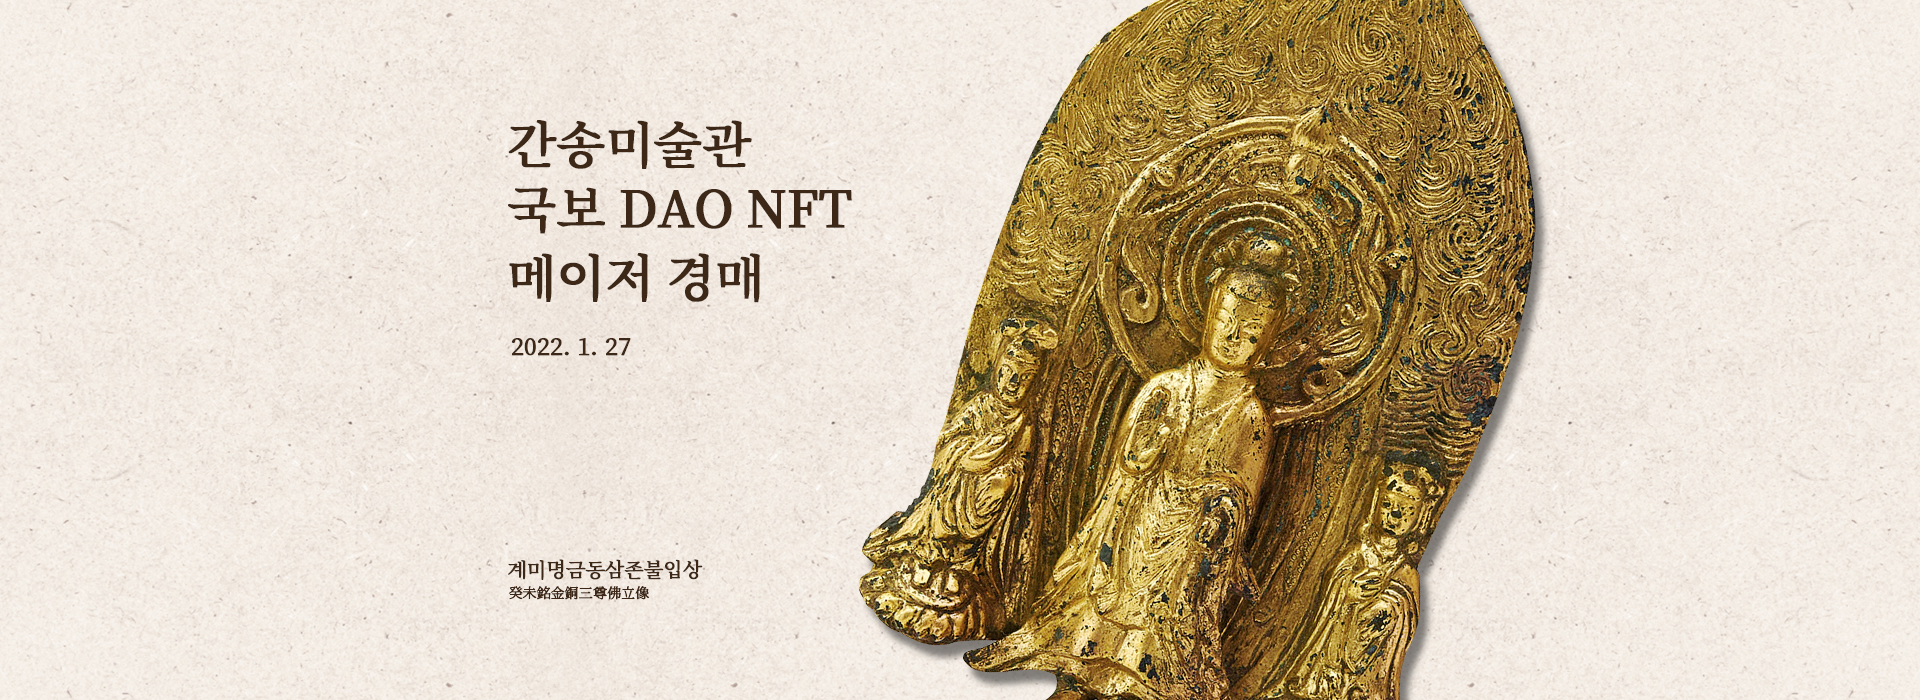
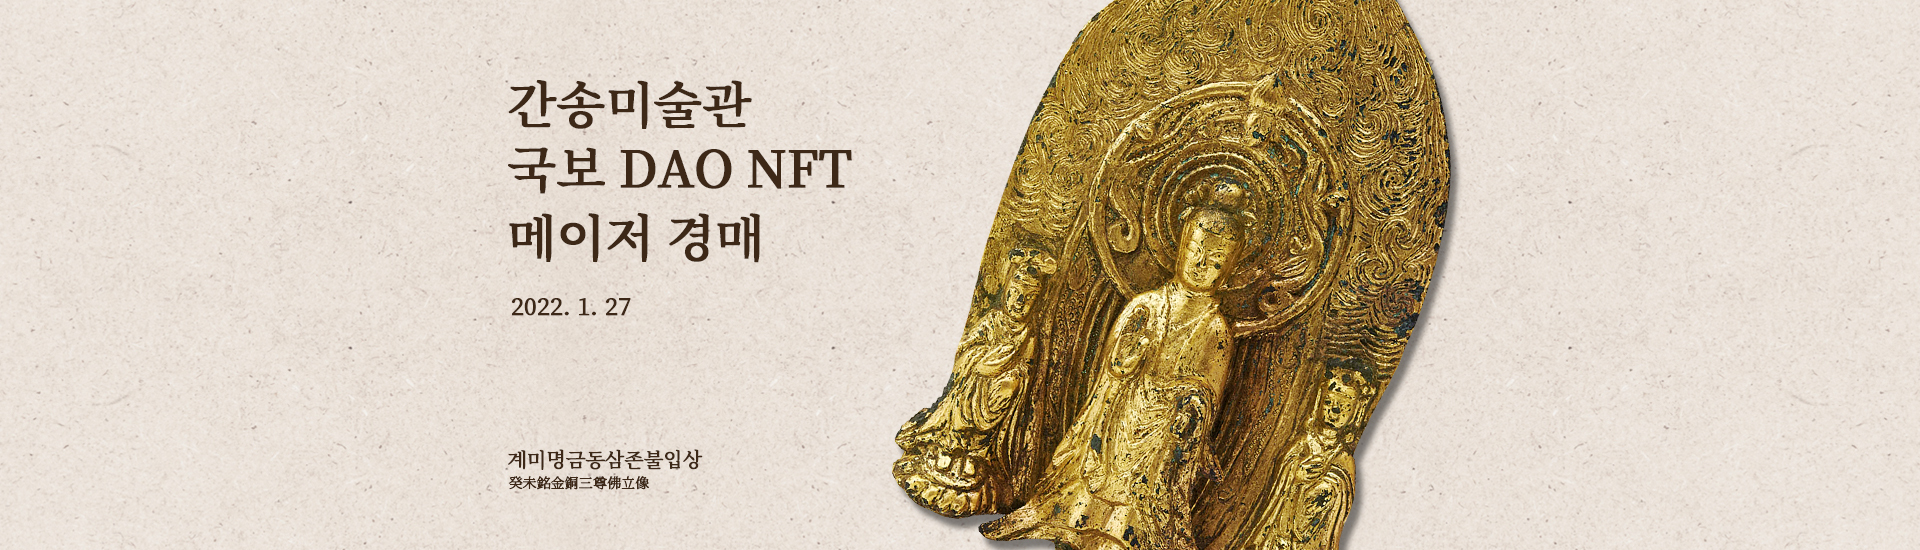
-.

diff --git a/index.html b/index.html
@@ -79,7 +79,7 @@
 
     <link rel="stylesheet" type="text/css" href="./css/index.css" />
   </head>
-  <body>
+  <body style="background-image: url(./asset/bg-repeat.jpg)">
     <div class="body-div" id="body-div">
       <div id="minting-loading"><div class="spinner"></div></div>
       <!-- <div class="modal-popup">
@@ -92,10 +92,57 @@
           </div>
         </div>
       </div> -->
+      <div class="header-div">
+        <img src="./asset/description-img1.jpg" width="50px" height="50px" />
+        <div class="header-right-div">
+          <a
+            href="https://discord.gg/NUWSxvNHv4"
+            class="social-btn"
+            target="_blank"
+          >
+            <img width="40" height="40" src="./asset/icon-discord.png" />
+          </a>
+          <a
+            href="https://discord.gg/NUWSxvNHv4"
+            class="social-btn"
+            target="_blank"
+          >
+            <img width="40" height="40" src="./asset/icon-twitter.png" />
+          </a>
+          <button
+            id="connect-btn"
+            class="button-small"
+            style="margin-left: 10px; display: none"
+            onclick="connectWallet()"
+          >
+            지갑 연결
+          </button>
+          <button
+            id="my-addr-btn"
+            class="button-small my-address"
+            style="margin-left: 10px; display: block"
+          ></button>
+        </div>
+      </div>
+      <!-- Funding popup  -->
+      <div class="modal-popup">
+        <div class="modal_body">
+          <div id="funding-loading"><div class="spinner"></div></div>
+          <div>
+            <p class="title_sub_p">DAO 참여하기</p>
+            <button class="btn-close-popup button-small">닫기</button>
+          </div>
+          <div>
+            <div>
+              <button class="button-text-large">경매 참여</button>
+            </div>
+          </div>
+        </div>
+      </div>
       <div
         id="banner_div"
         class="top-div"
-        style="background-image: url('./asset/banner1.jpg'); height: 650px"
+        style="background-image: url('./asset/banner1.jpg'); height: 550px"
       >
         <!-- <img id="bg-image" width="100%" height="650px" src="./asset/banner1.jpg"/> -->
         <div id="div-countdown" style="display: none">
@@ -109,7 +156,7 @@
         </div>
       </div>
       <div class="content-div">
-        <div class="frame-common" style="display: none">
+        <!-- <div class="frame-common" style="display: none">
           <div id="div-network" style="margin-bottom: 20px">
             Current Network :
             <span class="current-network" style="margin-right: 10px"></span>
@@ -139,7 +186,7 @@
               <span class="nft-address" style="margin-right: 10px"></span>
             </div>
           </div>
-        </div>
+        </div> -->
         <div style="margin-top: 80px; display: inline-flex">
           <div class="funding-state-div">
             <p class="title_sub_p">목표 모금 금액</p>
@@ -412,7 +459,7 @@
       </div>
     </div>
     <div class="funding-btn-div">
-      <button class="button-funding">참여하기</button>
+      <button class="button-funding btn-open-popup">참여하기</button>
     </div>
     <!-- Script -->
     <script src="./js/1.2.11-web3-min.js"></script>

diff --git a/css/index.css b/css/index.css
@@ -68,7 +68,7 @@ button {
   padding-bottom: 10px;
   color: var(--primary-color);
   /* font-family: "Fuzzy Bubbles", cursive; */
-  font-family: "MuseumClassic", sans-serif;
+  font-family: "Mu국립박물관문화재단클래식MseumClassic", sans-serif;
 }
 
 button:hover {
@@ -89,6 +89,40 @@ button[disabled] {
   line-height: 160%;
   text-align: right;
   border: 0;
+  font-family: "국립박물관문화재단클래식M";
+}
+
+.button-text-large {
+  font-size: 28px;
+  line-height: 160%;
+  width: 100%;
+  text-align: center;
+  border: 0;
+  background-color: var(--primary-color);
+  color: white;
+  font-family: "국립박물관문화재단클래식M";
+}
+
+.button-small {
+  font-size: 14px;
+  line-height: 160%;
+  text-align: right;
+  border: 0;
+  border-radius: 100px;
+  padding-left: 30px;
+  padding-right: 30px;
+  padding-top: 8px;
+  padding-bottom: 8px;
+  color: var(--buton-font-color);
+  background-color: var(--primary-color);
+  font-family: "국립박물관문화재단클래식M";
+}
+
+.social-btn {
+  width: 40px;
+  height: 40px;
+  margin-right: 8px;
+  display: inline-block;
 }
 
 p {
@@ -168,9 +202,6 @@ select {
   overflow: auto;
   scrollbar-width: none;
 }
-.body-div::-webkit-scrollbar {
-  display: none; /* Chrome, Safari, Opera*/
-}
 
 .content-div {
   width: 900px;
@@ -201,6 +232,23 @@ select {
   /* position: fixed; */
   width: 100%;
   height: 700px;
+}
+
+.header-div {
+  left: 0%;
+  right: 0%;
+  top: 0%;
+  height: 100px;
+  width: 900px;
+  display: flex;
+  align-items: center;
+}
+
+.header-right-div {
+  display: flex;
+  flex-direction: row;
+  width: 100%;
+  justify-content: right;
 }
 
 .title_p {
@@ -289,7 +337,7 @@ select {
   left: 0%;
   right: 0%;
   bottom: 0%;
-  width: 900px;
+  width: 930px;
   height: 80px;
   background: #3d2817;
   box-shadow: 0px 0px 20px rgba(61, 40, 23, 0.5);
@@ -303,10 +351,12 @@ select {
   font-family: "국립박물관문화재단클래식M", sans-serif;
   font-size: 26px;
   line-height: 160%;
-  text-align: right;
+  width: 100%;
+  text-align: center;
   border: 0;
   color: white;
 }
+
 .modal-popup {
   position: absolute;
   top: 0;
@@ -316,6 +366,7 @@ select {
   height: 100%;
 
   display: none;
+  background-color: rgba(0, 0, 0, 0.4);
 }
 
 .modal-popup.show {
@@ -334,9 +385,31 @@ select {
 
   text-align: center;
 
-  background-color: var(--second-color);
-  border-radius: 10px;
-  box-shadow: 0 2px 3px 0 rgba(34, 36, 38, 0.15);
+  background-color: white;
 
   transform: translateX(-50%) translateY(-50%);
+}
+
+#funding-loading {
+  display: none;
+  /* width: 100%;
+            height: 100%; */
+  position: absolute;
+  top: 0;
+  left: 0;
+}
+#funding-loading .spinner {
+  box-sizing: border-box;
+  position: fixed;
+  top: 50%;
+  left: 46%;
+  width: 150px;
+  height: 150px;
+  /* margin-top: -32px;
+            margin-left: -32px;             */
+  border-radius: 50%;
+  border: 20px solid transparent;
+  border-top-color: #ce113b;
+  border-bottom-color: #ce113b;
+  animation: spinner 0.8s ease infinite;
 }

diff --git a/js/index.js b/js/index.js
@@ -99,11 +99,13 @@ async function getAccount() {
       $(".my-address").html(getLink(myAddr, chainId));
       $("#content_body").show();
       $("#connect-btn").hide();
+      $("#my-addr-btn").show();
     } else {
       console.log("No Klaytn account is available!");
       $("#div-myaddress").hide();
       $("#content_body").hide();
       $("#connect-btn").show();
+      $("#my-addr-btn").hide();
 
       $(".description").html(
         "<p>모금에 참여하려면 지갑 연결 버튼을 클릭하여 지갑을 연결하세요..</p>"
@@ -114,6 +116,7 @@ async function getAccount() {
     $("#div-myaddress").hide();
     $("#content_body").hide();
     $("#connect-btn").show();
+    $("#my-addr-btn").hide();
     $(".description").html(
       "<p>모금에 참여하려면 지갑 연결 버튼을 클릭하여 지갑을 연결하세요..</p>"
     );
@@ -203,3 +206,41 @@ function showBanner() {
     loop_cnt == banner_img.length ? (loop_cnt = 0) : loop_cnt;
   }, 5000);
 }
+
+const modal = document.querySelector(".modal-popup");
+const btnOpenPopup = document.querySelector(".btn-open-popup");
+const btnClosePopup = document.querySelector(".btn-close-popup");
+
+btnOpenPopup.addEventListener("click", () => {
+  modal.classList.toggle("show");
+  const target = document.getElementById("bonus-claim-btn");
+  target.disabled = true;
+
+  if (modal.classList.contains("show")) {
+    body.style.overflow = "hidden";
+  }
+  showBonusClaimCardList();
+});
+
+btnClosePopup.addEventListener("click", () => {
+  modal.classList.toggle("show");
+  bonus_claim_complete.innerHTML = "";
+
+  const target = document.getElementById("bonus-claim-btn");
+  target.disabled = true;
+
+  if (!modal.classList.contains("show")) {
+    body.style.overflow = "auto";
+  }
+});
+
+modal.addEventListener("click", (event) => {
+  if (event.target === modal) {
+    modal.classList.toggle("show");
+    bonus_claim_complete.innerHTML = "";
+
+    if (!modal.classList.contains("show")) {
+      body.style.overflow = "auto";
+    }
+  }
+});

diff --git a/js/utils.js b/js/utils.js
@@ -14,9 +14,9 @@ function getLink(addr, chainId) {
 
   if (addr.length == 42) {
     return (
-      '<a target="_blank" style="text-decoration: underline;color:coral;" href="' +
+      '<a target="_blank" style="color:white;" href="' +
       explorer +
-      "/address/" +
+      "/account/" +
       addr +
       '">' +
       shortAddr +
@@ -24,7 +24,7 @@ function getLink(addr, chainId) {
     );
   } else {
     return (
-      '<a target="_blank" style="text-decoration: underline;color:coral;" href="' +
+      '<a target="_blank" style="color:white;" href="' +
       explorer +
       "/tx/" +
       addr +
